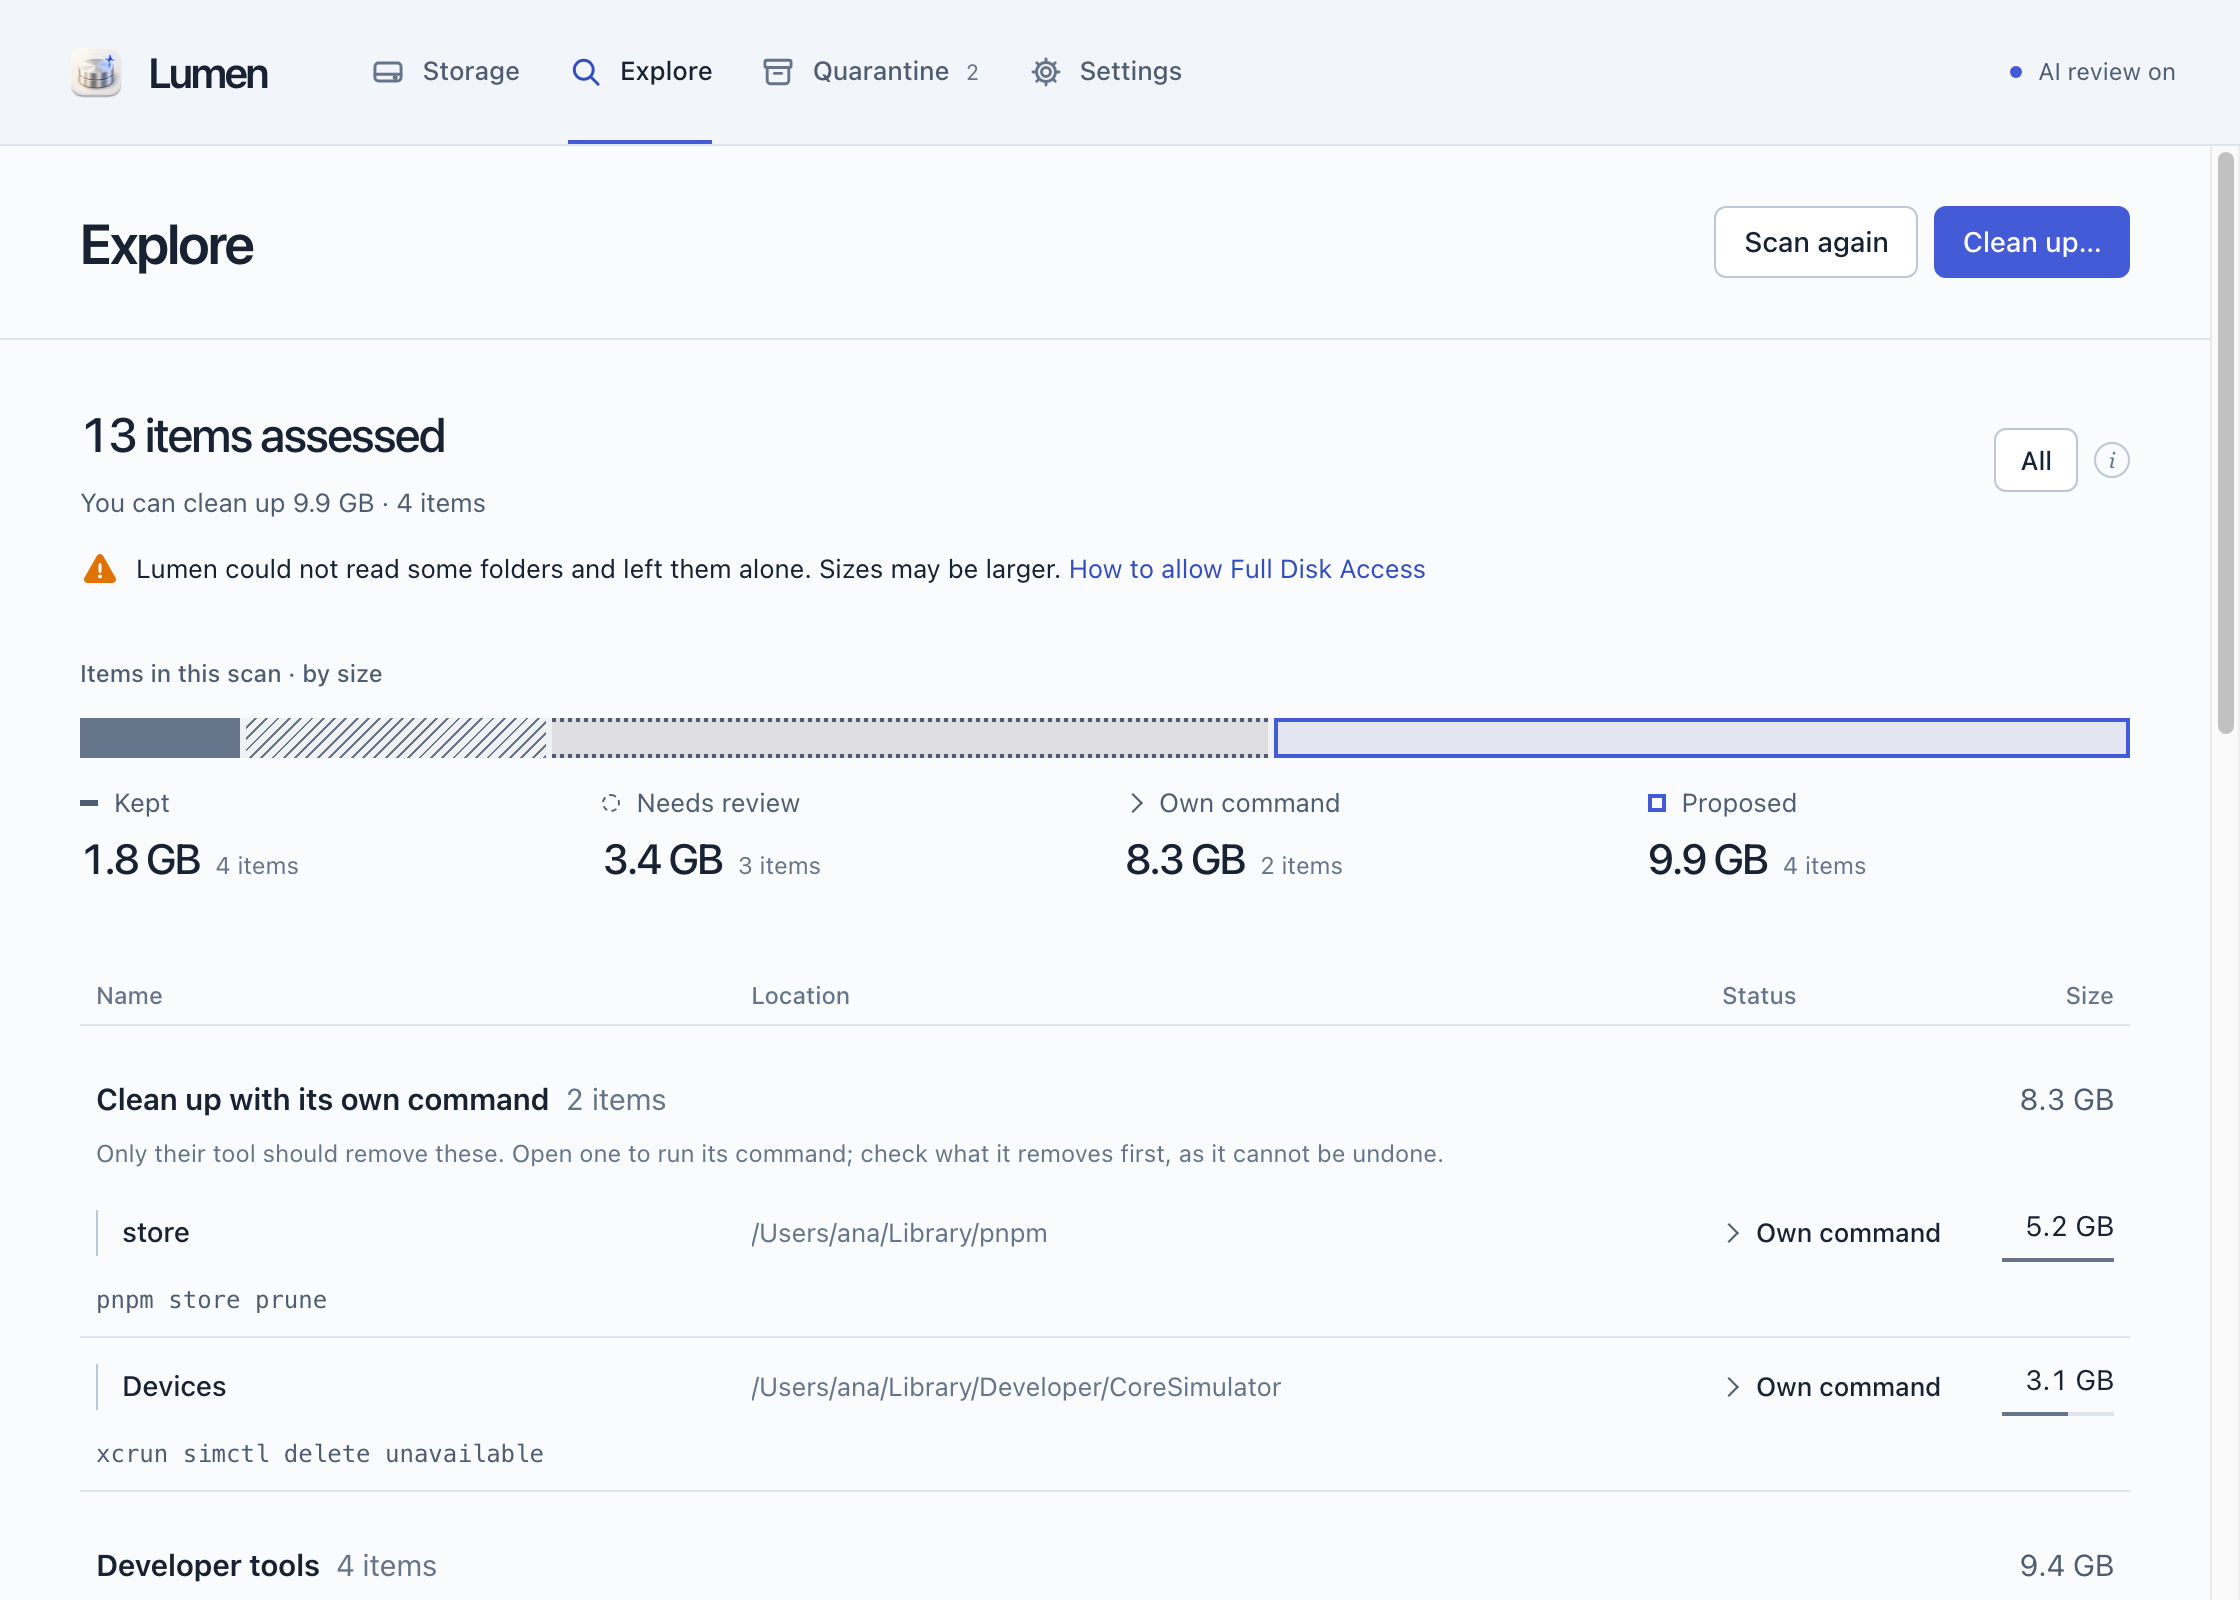
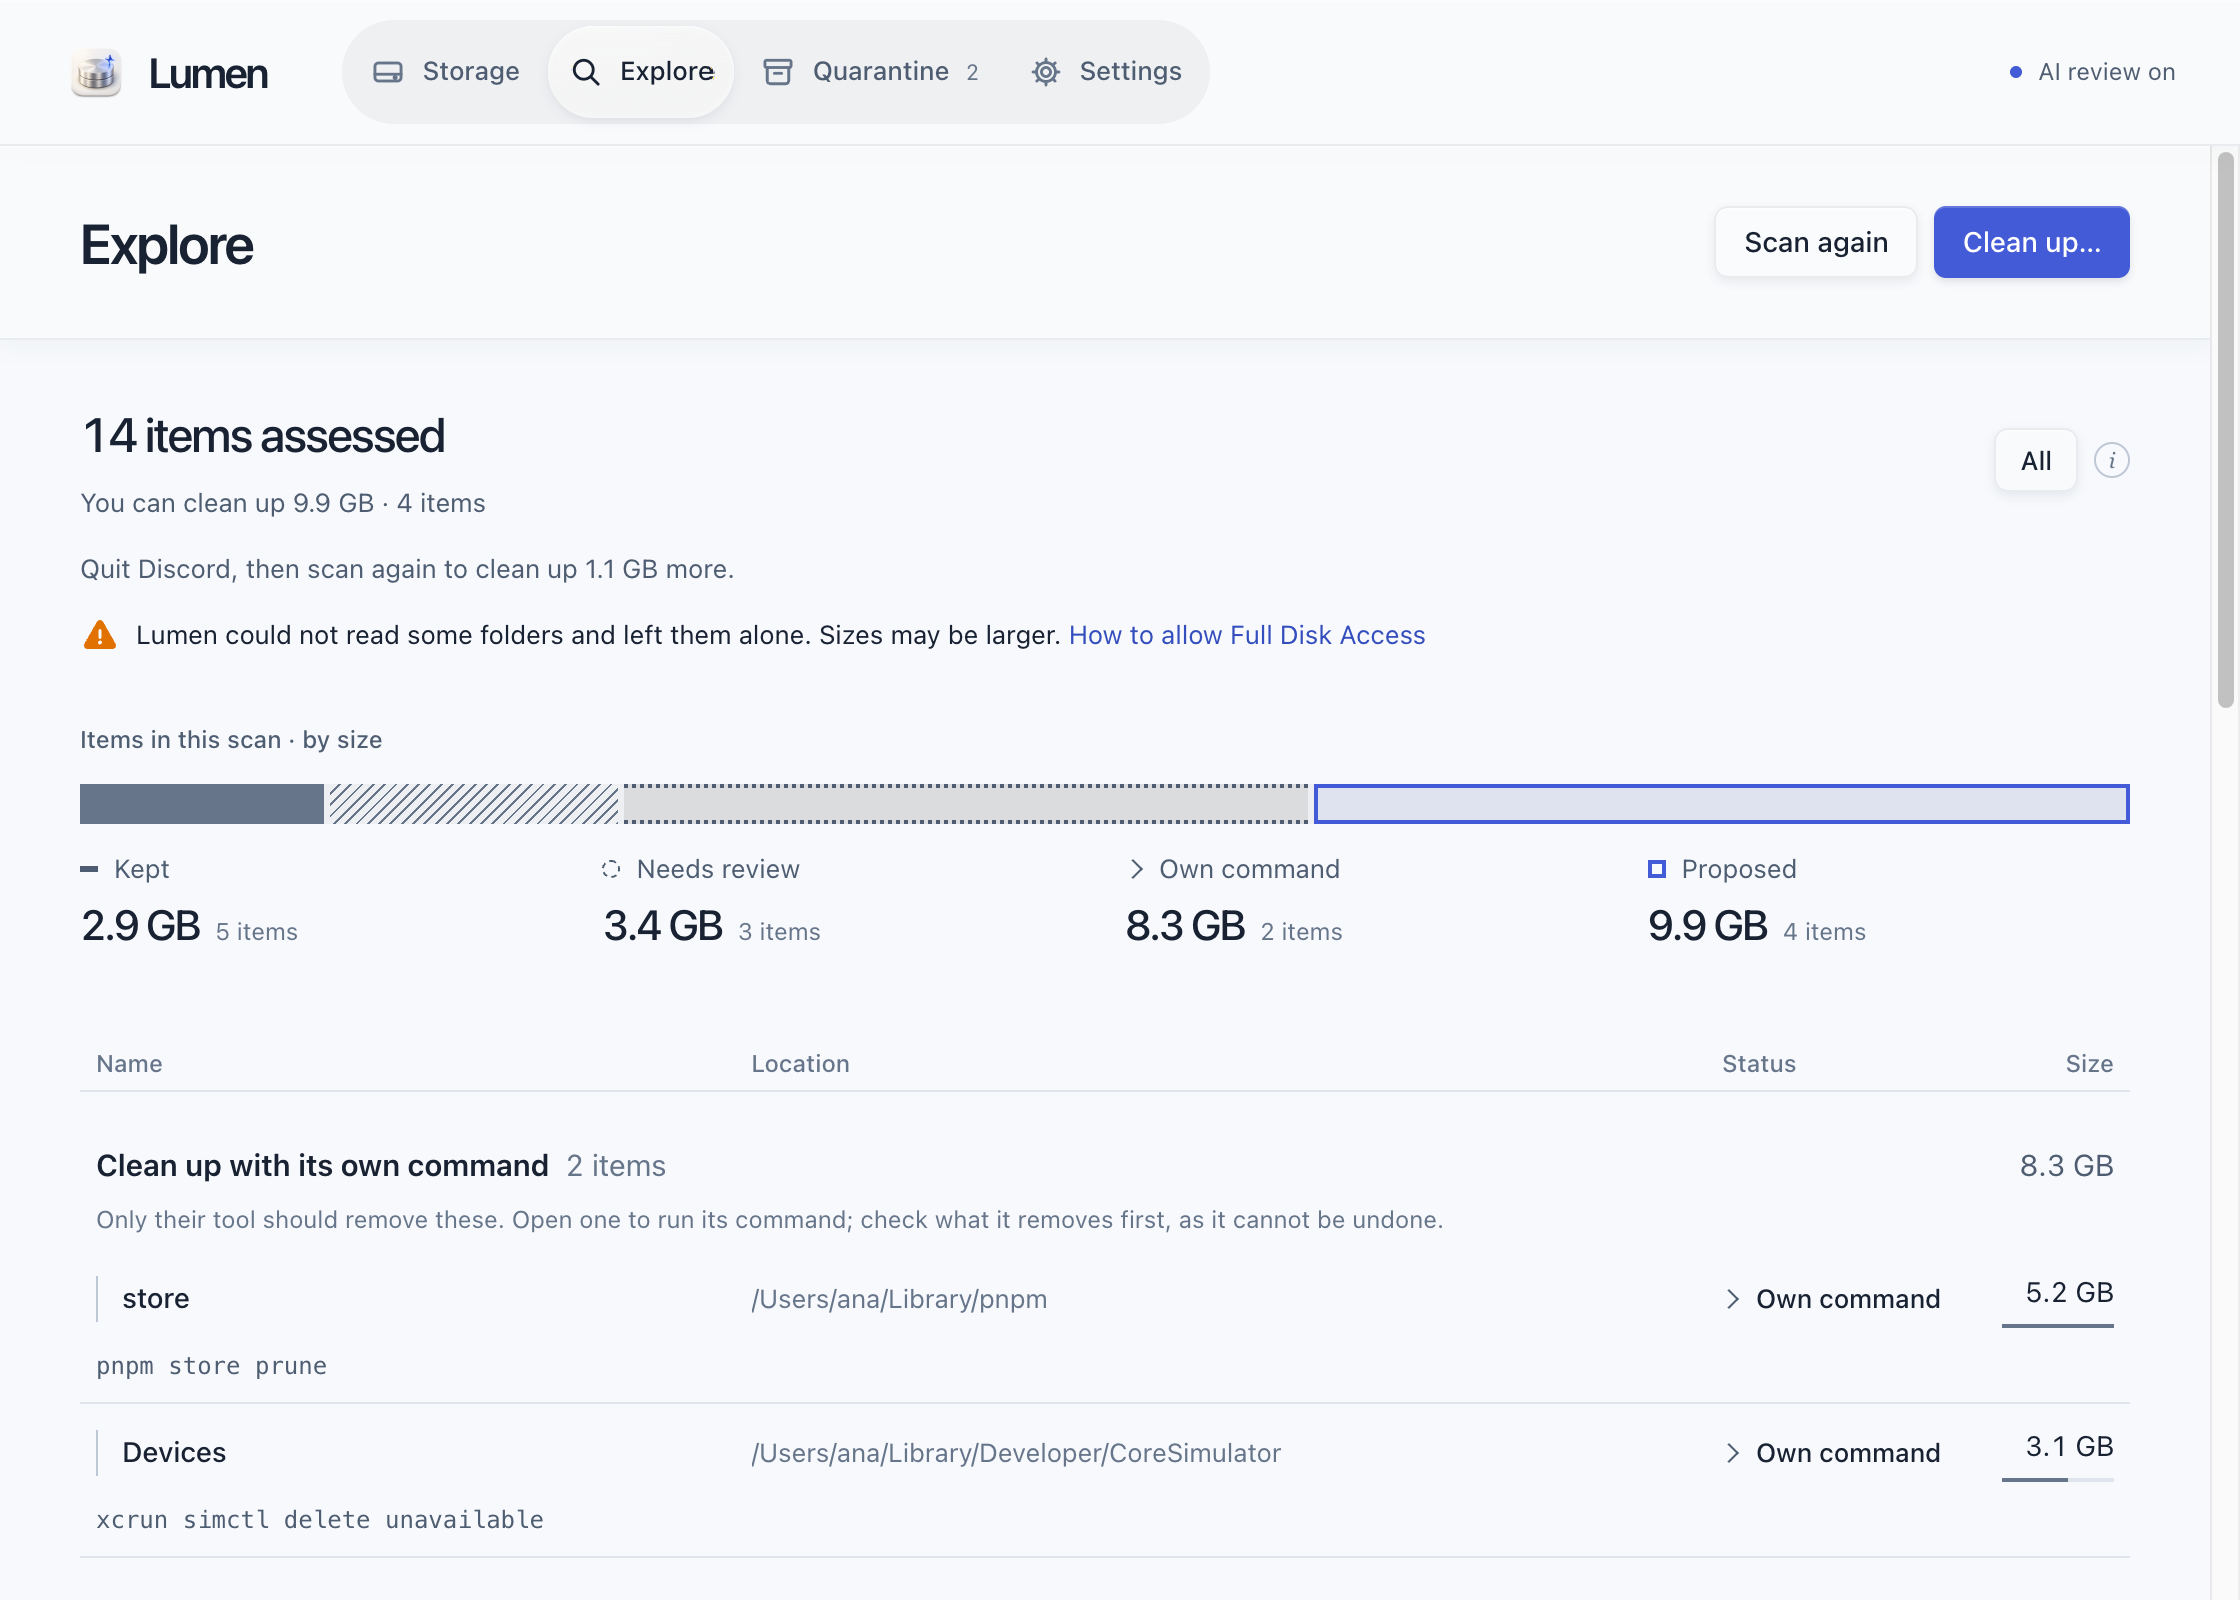
docs(site): refresh app screenshots after the navigation lens (#593)

diff --git a/apps/site/src/styles/showcase.css b/apps/site/src/styles/showcase.css
@@ -18,7 +18,8 @@
   height: 28px;
   padding: 0 12px;
   border-bottom: 1px solid var(--line);
-  background: #f2f2f5;
+  background: #edf1f7;
+  box-shadow: inset 0 1px rgb(255 255 255 / 0.72);
 }
 
 .app-window-bar span {

diff --git a/docs/design/site-illustrations.md b/docs/design/site-illustrations.md
@@ -95,8 +95,9 @@ The home page and the README show the app itself (`apps/site/public/screens/` an
 its sample data (a fictional `/Users/ana`, never a real disk) and the built-in-key
 option on so AI notes appear, at the desktop window's default size (1120 × 800 px,
 2x; Quarantine uses the minimum 560 px height to fit its two sample items). They were
-refreshed on 2026-10-29 after the storage-identity redesign: horizontal
-navigation, storage composition and an evidence inspector replace the old sidebar UI.
+refreshed on 2026-10-31 after the app material pass: continuous navigation, a
+refracting navigation lens and layered command surfaces. Storage composition, evidence
+and workflows remain unchanged.
 The site displays one light Explore capture per available screenshot language:
 Korean and English. Other localized pages use the English capture (WebP, 1600 ×
 1143 px). Its other four Korean and English review/Quarantine assets are also
@@ -126,7 +127,8 @@ Then run `node scripts/capture-app-screens.mjs`. `LUMEN_CAPTURE_ORIGIN` and
 `LUMEN_CAPTURE_CDP` can override those loopback URLs. The script changes only the
 served fixture bootstrap to enable sample AI notes; it does not edit the app's source
 or rendered DOM, invoke the native host, access a keychain or contact an AI service.
-It checks the bootstrap shape, pins the sample clock to 2026-10-29, waits for fonts
+It checks the bootstrap shape, chooses AI review through the first-launch screen
+on the fixture transport, pins the sample clock to 2026-10-29, waits for fonts
 and expected data, and rejects runtime exceptions, external requests and horizontal
 overflow. All pictured paths belong to the fictional `/Users/ana`.
 
